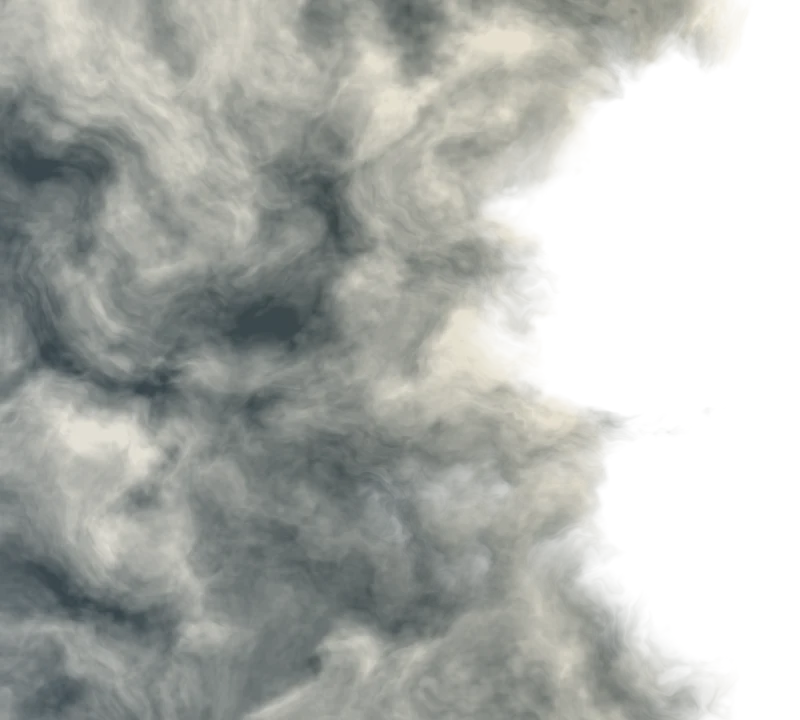
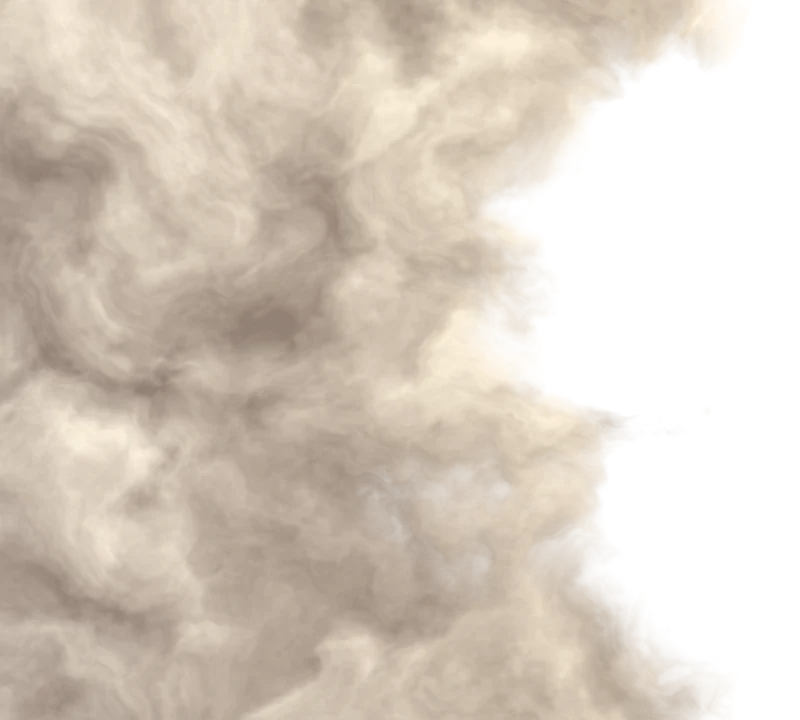
design: warm the sea fog to match the lighthouse glow (#128)

diff --git a/src/components/auth/login-fog.module.css b/src/components/auth/login-fog.module.css
@@ -18,7 +18,7 @@
     content: "";
     position: absolute;
     inset: 0;
-    background: linear-gradient(110deg, #708085, #a7aeaa 55%, #c3bba9);
+    background: linear-gradient(110deg, #b4a294, #d6c3ac 55%, #f3e3ca);
     animation: fogLift var(--lh-arrival-duration) linear both;
   }
 
@@ -27,7 +27,7 @@
     position: absolute;
     inset: 0;
     z-index: -1;
-    background: #354043 url("/lighthouse-home-hero-bg-v2-realistic-shore.png") 86% center / cover;
+    background: #9b8169 url("/lighthouse-home-hero-bg-v2-realistic-shore.png") 86% center / cover;
     animation: fogCoast var(--lh-arrival-duration) ease-out both;
   }
 
